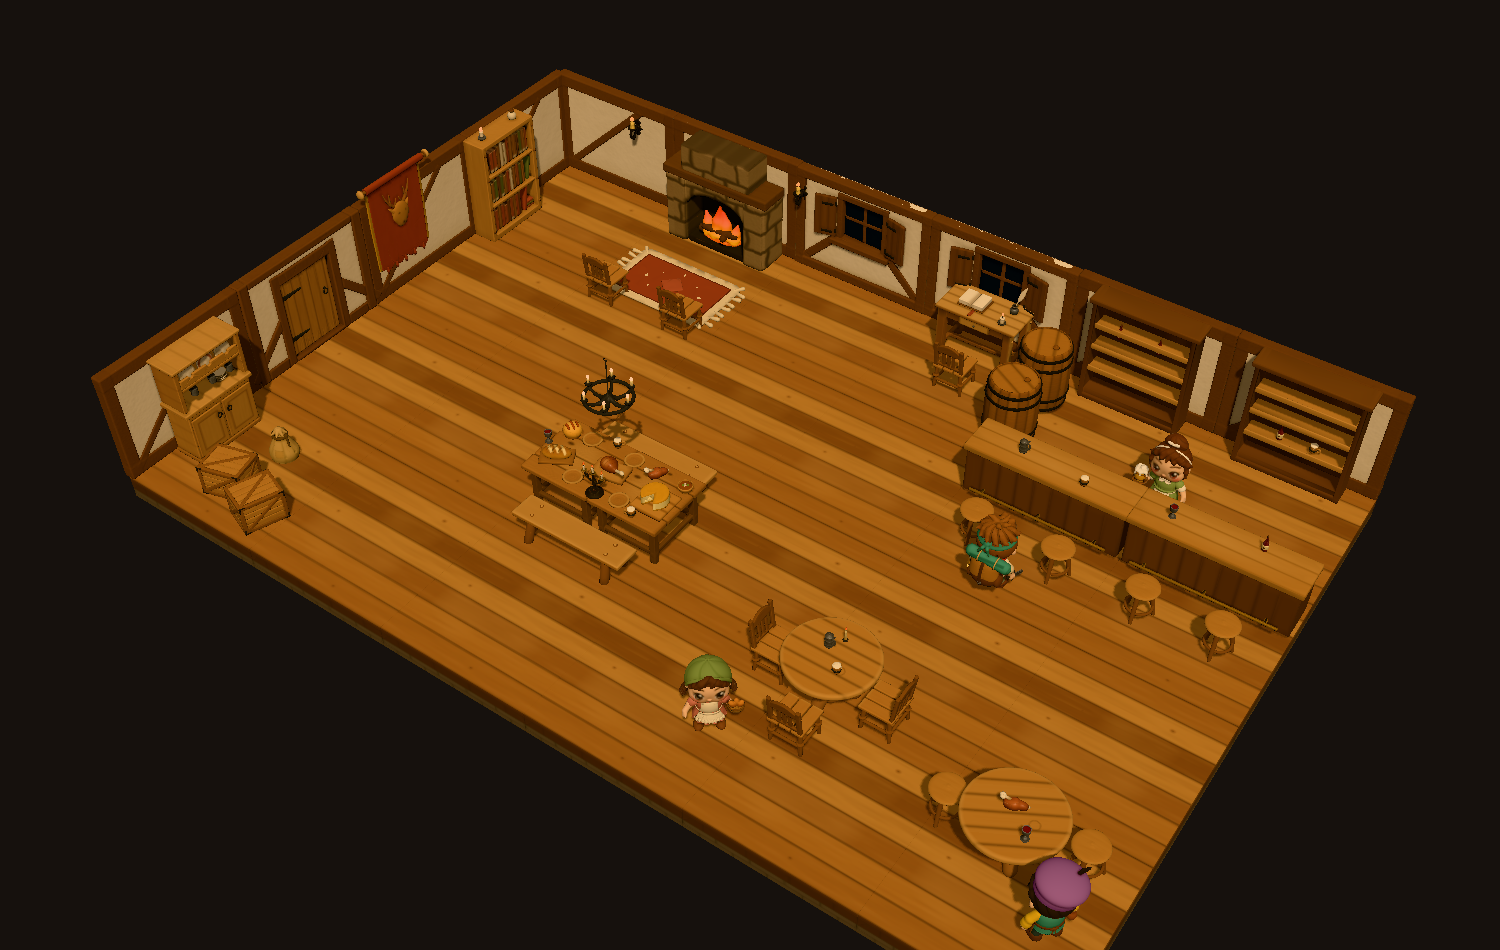
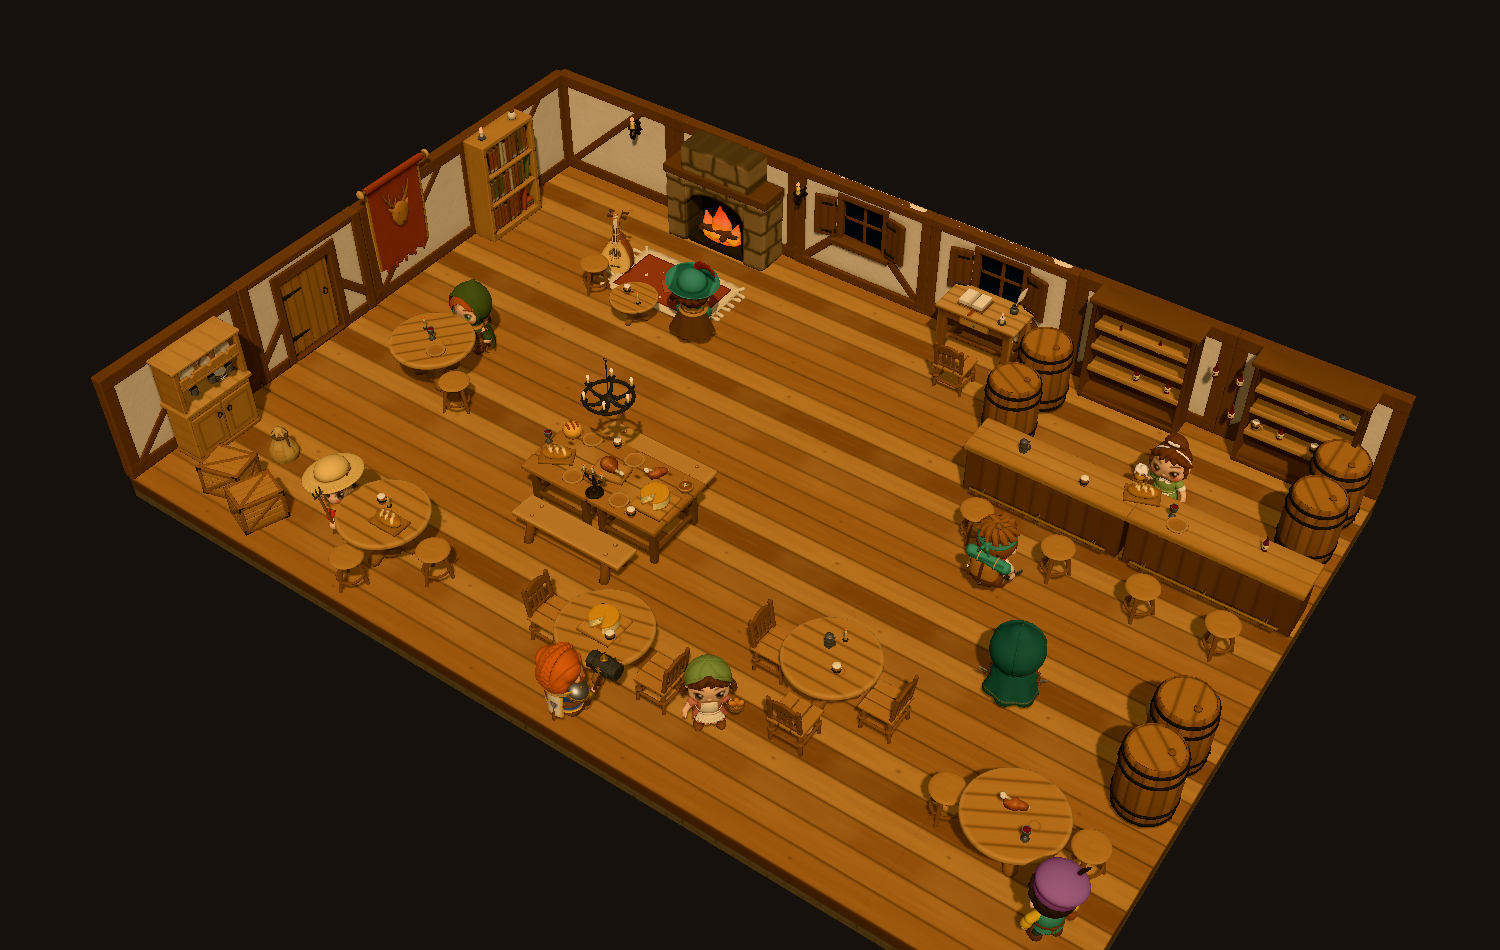
feat(maps): tavern map at 7.5
The common room is full: three more round tables with patrons, food,
and drink in the south half, a hearth group with the bard, and bottles,
mugs, and barrels on and behind the bar. 148 pieces (was 101).
Four patrons stood 20 cm above the floor; they stand on it now.
Agent: forge-sonnet-medium.

diff --git a/scenes/tavern-interior.ts b/scenes/tavern-interior.ts
@@ -30,8 +30,13 @@ export function tavernInteriorPlaces(): Place[] {
   // Hearth corner: fireplace on the north wall, rug, and two chairs facing the fire.
   put('fireplace', -3.0, NORTH);
   put('rug', -3.0, -2.5);
-  put('chair', -3.6, -1.9, 180);
-  put('chair', -2.4, -1.9, 180);
+  places.push({ asset: 'round-table', at: [-3.0, 0, -1.7], scale: 0.6 });
+  put('mug', -3.1, -1.7, 30, 0.38);
+  put('candle', -2.85, -1.6, 0, 0.38);
+  put('stool', -3.8, -1.9);
+  put('stool', -2.2, -1.9);
+  put('bard', -2.2, -1.9, 200, 0, true);
+  put('lute', -3.8, -2.3, 20, 0.0, true);
   put('wall-sconce', -4.6, NORTH, 0, 1.0);
   put('wall-sconce', -1.9, NORTH, 0, 1.0);
 
@@ -46,6 +51,19 @@ export function tavernInteriorPlaces(): Place[] {
   put('mug', 5.2, NORTH + 0.18, 0, 0.48);
   put('barrel', 2.0, -3.3, 20);
   put('barrel', 2.0, -2.5, 60);
+  put('barrel', 5.6, -3.4, 0);
+  put('barrel', 5.6, -2.7, 40);
+  put('bottle', 3.6, NORTH + 0.18, 0, 0.98);
+  put('bottle', 3.9, NORTH + 0.18, 0, 0.98);
+  put('bottle', 4.2, NORTH + 0.18, 0, 0.98);
+  put('bottle', 3.0, NORTH + 0.18, 0, 0.48);
+  put('bottle', 3.4, NORTH + 0.18, 0, 0.48);
+  put('bottle', 4.2, NORTH + 0.18, 0, 0.48);
+  put('mug', 4.5, NORTH + 0.18, 0, 0.48);
+  put('mug', 5.0, NORTH + 0.18, 0, 0.98);
+  put('tankard', 5.4, NORTH + 0.18, 0, 0.98);
+  put('plate', 4.5, -1.5, 0, BAR);
+  put('bread', 4.0, -1.7, 20, BAR);
   put('innkeeper', 4.0, -2.5, 0, 0, true);
   put('tankard', 2.6, -1.6, 20, BAR);
   put('mug', 3.4, -1.5, 80, BAR);
@@ -93,6 +111,37 @@ export function tavernInteriorPlaces(): Place[] {
   put('goblet', 5.0, 2.8, 0, TABLE);
   put('villager', 1.6, 3.0, 40, 0, true);
   put('shopkeeper', 5.5, 3.2, 230, 0, true);
+
+  // South half: more round tables, each with seats, food, and drink; patrons seated and standing.
+  put('round-table', -2.7, 3.1);
+  put('stool', -3.4, 3.1);
+  put('stool', -2.0, 3.1);
+  put('stool', -2.7, 3.7);
+  put('mug', -2.8, 3.0, 20, TABLE);
+  put('plate', -2.5, 3.2, 0, TABLE);
+  put('bread', -2.5, 3.2, 0, TABLE + 0.02);
+  put('candle', -2.7, 3.0, 0, TABLE);
+  put('farmer', -3.4, 3.1, 90, 0, true);
+  put('round-table', 0.3, 3.0, 15);
+  put('chair', -0.4, 3.0, 90);
+  put('chair', 1.0, 3.0, 270);
+  put('stool', 0.3, 3.7);
+  put('tankard', 0.2, 2.9, 0, TABLE);
+  put('mug', 0.45, 3.1, 120, TABLE);
+  put('cheese', 0.3, 3.0, 0, TABLE);
+  put('cleric', 0.3, 3.7, 180, 0, true);
+  put('round-table', -4.3, 0.6, 50);
+  put('stool', -4.3, -0.1);
+  put('stool', -3.7, 0.9, 90);
+  put('goblet', -4.3, 0.6, 0, TABLE);
+  put('plate', -4.1, 0.75, 0, TABLE);
+  put('candle', -4.5, 0.5, 0, TABLE);
+  put('ranger', -4.3, -0.1, 0, 0, true);
+  put('rogue', 3.9, 0.9, 200, 0, true);
+  put('barrel', 5.6, 0.7, 10);
+  put('barrel', 5.6, 1.4, 50);
+  put('sack', 5.3, 0.3, 20);
+  put('sack', 5.5, 3.9, 80);
 
   // West wall: bookshelf and cupboard, a tapestry, the storage corner.
   put('bookshelf', WEST + 0.17, -2.4, 90);
